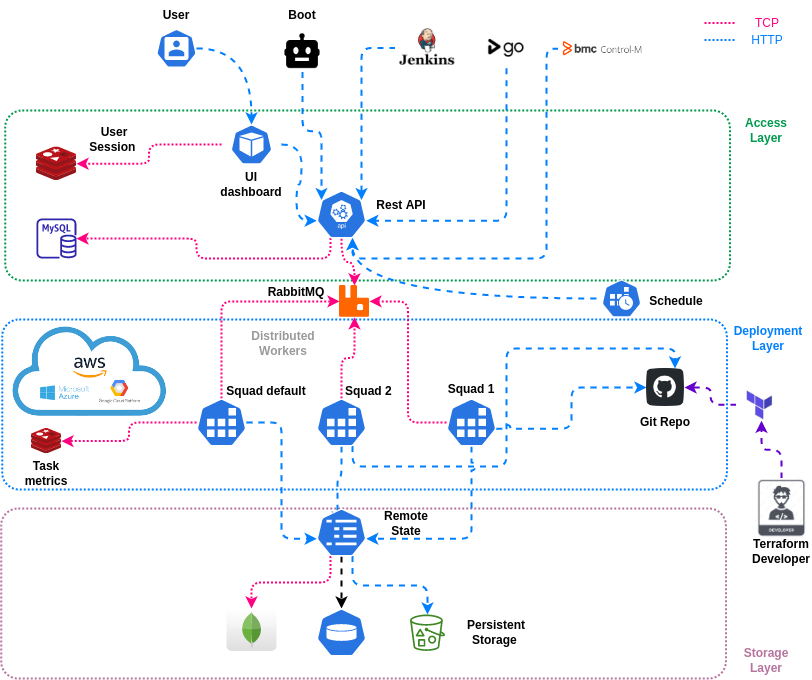
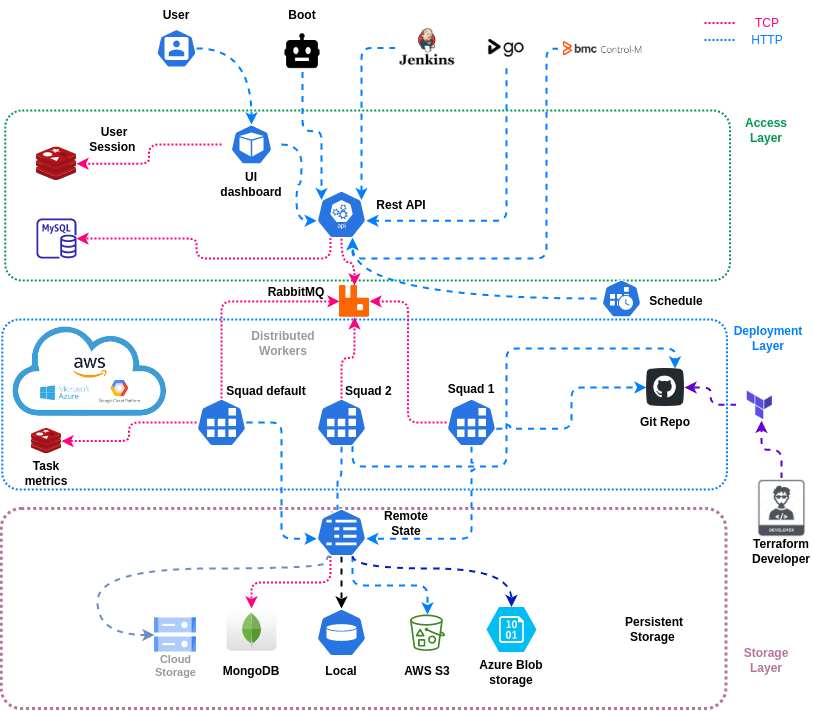
feat: update doc storage backend

diff --git a/README.md b/README.md
@@ -305,6 +305,82 @@ To configure S3 you can pass the access and secret keys of aws, in case SLD is r
     - name: AWS_SECRET_ACCESS_KEY
       value: ""
 ```
+For Azure env you need set the next env
+```
+          env:                                                                                                                                    
+          - name: SLD_STORE
+            value: azure
+          - name: AZURE_STORAGE_CONNECTION_STRING
+            value: "DefaultEndpointsProtocol=https;AccountName=<YOUR ACCOUNT>;AccountKey=<YOUR ACCESS KEY>;EndpointSuffix=core.windows.net"
+```
+[See azure-storage-configure-connection-string](https://docs.microsoft.com/en-us/azure/storage/common/storage-configure-connection-string)
+
+For google cloud storage set:
+```
+SLD_STORE=gcp
+export GOOGLE_APPLICATION_CREDENTIALS="/app/sld-gcp-credentials.json"
+```
+**Import google service account key to k8s secret**
+```
+kubectl create secret generic gcp-storage --from-file=~/Downloads/storage.json
+```
+**Modify sld-remote-state.yml set gcp storage cloud backend and mount secret:**
+```
+apiVersion: apps/v1                                                                                                                               
+kind: Deployment                                                                                                                                  
+metadata:                                                                                                                                         
+  name: remote-state                                                                                                                              
+  labels:                                                                                                                                         
+    name: remote-state                                                                                                                            
+spec:                                                                                                                                             
+  replicas: 1                                                                                                                                     
+  selector:                                                                                                                                       
+    matchLabels:                                                                                                                                  
+      name: remote-state         
+  template:                                                                                                                                                                                                        
+    metadata:                                                                  
+      labels:                                                            
+        name: remote-state                                               
+    spec:                        
+      subdomain: primary                                                                                                                                                                                                                                                        
+      containers:                                                                              
+        - name: remote-state                                                                   
+          image: d10s0vsky/sld-remote-state:latest                                                                     
+          volumeMounts:                    
+          - name: gcp                                                                                                                                         
+            mountPath: "/app/gcp"                                                                                                                                            
+            readOnly: true                          
+          env:                                      
+          - name: SLD_STORE                         
+            value: gcp                              
+          - name: GOOGLE_APPLICATION_CREDENTIALS                                                                                                                                                                   
+            value: "/app/gcp/storage.json"                                                                             
+          resources:                                                
+            limits:                                                 
+              memory: 600Mi                                         
+              cpu: 1                                                                                                                                                                                                                                                            
+            requests:                                                          
+              memory: 300Mi                                                    
+              cpu: 500m                                                        
+          imagePullPolicy: Always                                              
+          command: ["python3", "-m", "uvicorn", "main:app", "--host", "0.0.0.0", "--port", "8080", "--workers", "1"]                                          
+          ports:                                                                               
+            - containerPort: 8080                                                              
+          livenessProbe:                                                                       
+            httpGet:                                                                           
+              path: /                                                                          
+              port: 8080                                                                                                                                                                      
+              httpHeaders:                                                                                             
+              - name: status                                                                                           
+                value: healthy                                                                                         
+            initialDelaySeconds: 60                                                                                    
+            periodSeconds: 60                                                                                          
+      volumes:                                                                                                         
+      - name: gcp                                                                                                      
+        secret:                                                                                                        
+          secretName: gcp-storage                                                    
+```
+
 ## Data remote state
 To be able to use the outputs of other stacks you can configure it as follows
 the key alwys is the same like "Task Name"
